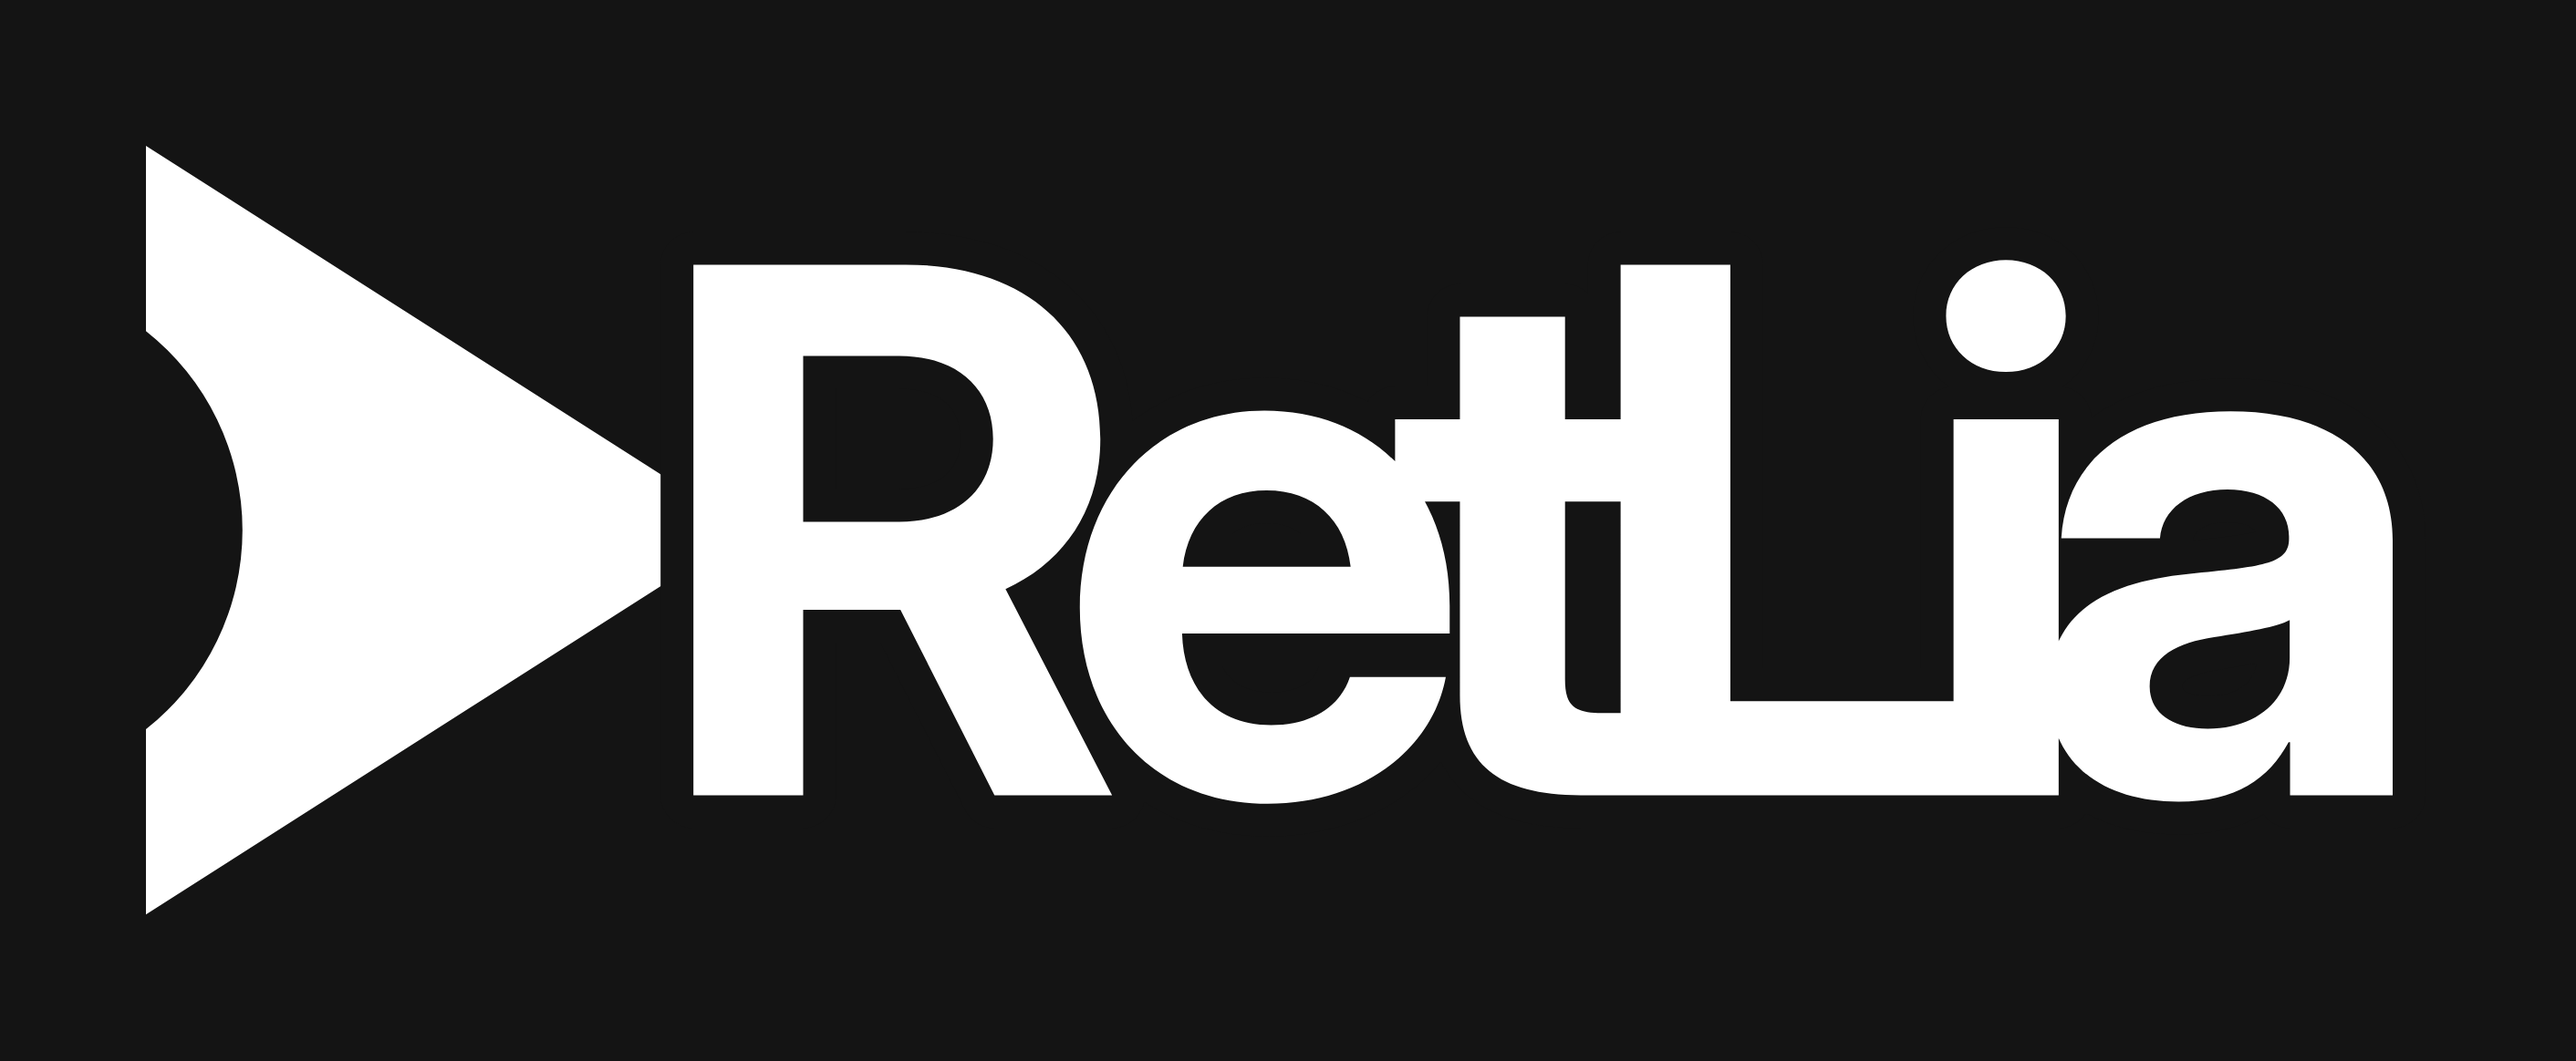
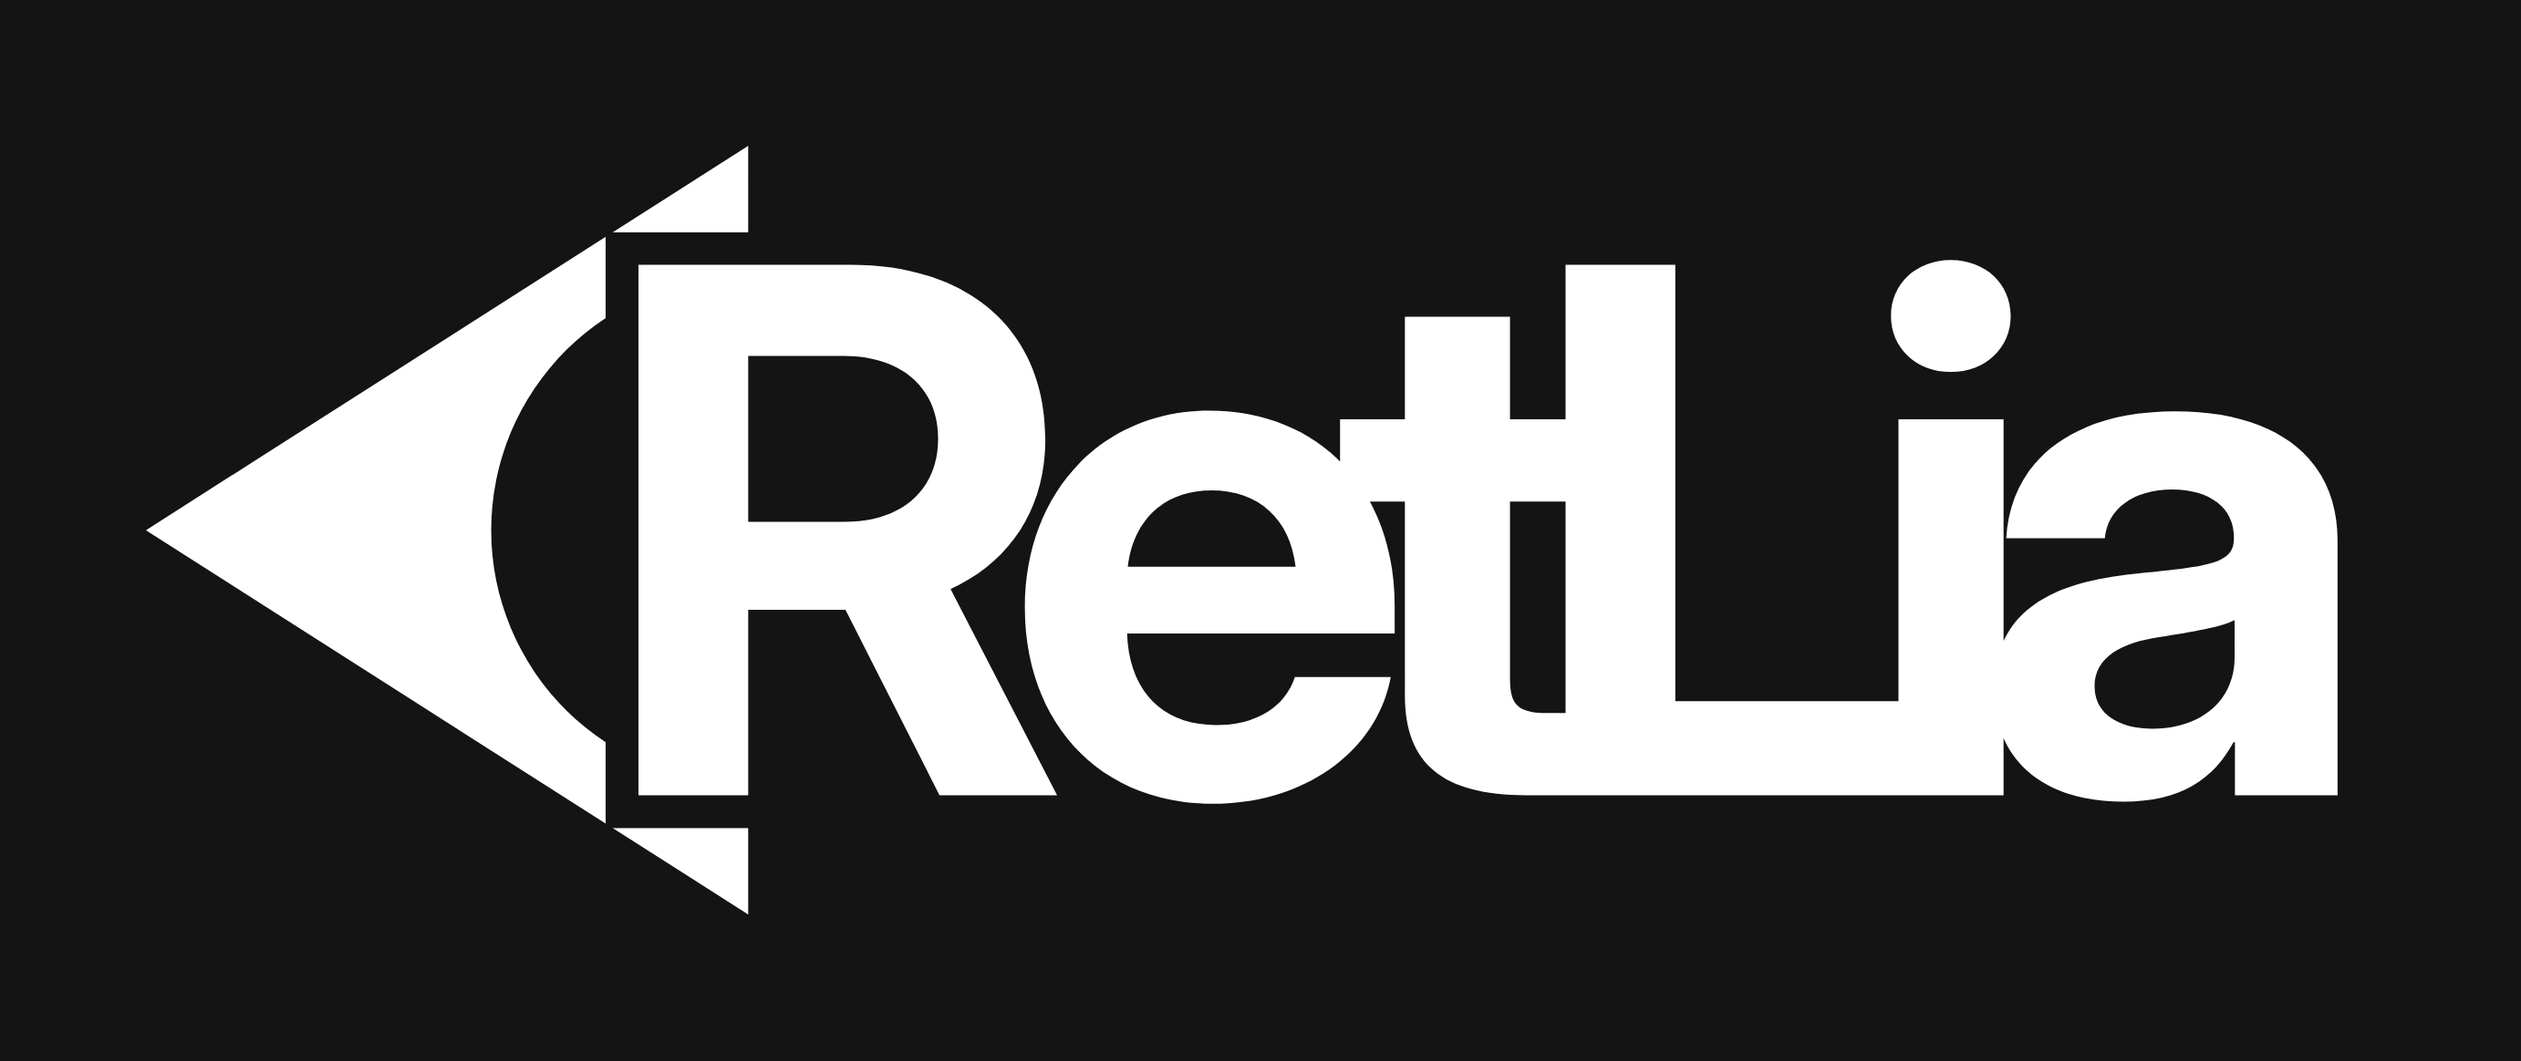
RetLia lateral: flip lozenge to point left, globe sliver on the visible side, deeper behind the R
Claude-Session: https://claude.ai/code/session_01S4SgoPNwAJLDoX8PJdvnWV

diff --git a/brand/retlia/gerar.py b/brand/retlia/gerar.py
@@ -98,22 +98,29 @@ def lateral(dark=False):
     W=H*8.3/10.6                  # metade da largura do losango
     top=pad; base_y=pad+(H-CAP)/2+CAP   # nome centrado na altura do símbolo
     x0=pad; cy=top+H/2
-    R=(H/2)*3.5/5.3; off=R*0.62; d=math.sqrt(R*R-off*off)
-    # lado reto vertical à esquerda, ponta para a direita; calota da bola recortada no lado reto
-    sym=(f"M{x0:.2f} {top:.2f}L{x0+W:.2f} {cy:.2f}L{x0:.2f} {top+H:.2f}"
-         f"L{x0:.2f} {cy+d:.2f}A{R:.2f} {R:.2f} 0 0 0 {x0:.2f} {cy-d:.2f}Z")
-    # a ponta do símbolo termina no meio da haste do R (nunca aparece dentro do olho do R)
     f=TTFont(BOLD); gs=f.getGlyphSet(); sc=SIZE/f['head'].unitsPerEm
     bp=BoundsPen(gs); gs[f.getBestCmap()[ord("I")]].draw(bp); ix0,_,ix1,_=bp.bounds
-    lsb=f['hmtx'][f.getBestCmap()[ord("R")]][1]
-    tx=x0+W-(lsb+(ix1-ix0)*0.5)*sc
+    lsb=f['hmtx'][f.getBestCmap()[ord("R")]][1]*sc; stem=(ix1-ix0)*sc
+    border=SIZE*0.045
+    # ponta para a esquerda; o lado reto fica escondido atrás da haste do R
+    flat=x0+W
+    tx=flat-lsb-stem
+    # bola: mesmo raio da bandeira, deslocada para o lado aparente;
+    # só uma fração pequena aparece à esquerda do R
+    R=(H/2)*3.5/5.3
+    r_left=tx+lsb-border
+    cx=r_left-R*0.45+R
+    dy=math.sqrt(R*R-(flat-cx)**2)
+    sym=(f"M{flat:.2f} {top:.2f}L{x0:.2f} {cy:.2f}L{flat:.2f} {top+H:.2f}"
+         f"L{flat:.2f} {cy+dy:.2f}A{R:.2f} {R:.2f} 0 1 1 {flat:.2f} {cy-dy:.2f}Z")
     t,endx=text_path(BOLD,"RetLia",SIZE,tx,base_y,TRACK,KERN)
     w=endx+pad; h=H+2*pad
-    border=SIZE*0.045
     return (f'<svg xmlns="http://www.w3.org/2000/svg" viewBox="0 0 {w:.0f} {h:.0f}">'
             f'<rect width="100%" height="100%" fill="{paper}"/>'
             f'<path d="{sym}" fill="{ink}"/>'
-            f'<path d="{t}" fill="{ink}" stroke="{paper}" stroke-width="{border*2:.1f}" stroke-linejoin="round" paint-order="stroke"/></svg>')
+            # borda branca: recorte reto em volta da haste do R, quinas vivas
+            f'<rect x="{r_left:.2f}" y="{base_y-CAP-border:.2f}" width="{flat+border-r_left:.2f}" height="{CAP+2*border:.2f}" fill="{paper}"/>'
+            f'<path d="{t}" fill="{ink}"/></svg>')
 
 open(OUT+"retlia-lateral.svg","w").write(lateral())
 open(OUT+"retlia-lateral-negativo.svg","w").write(lateral(True))
